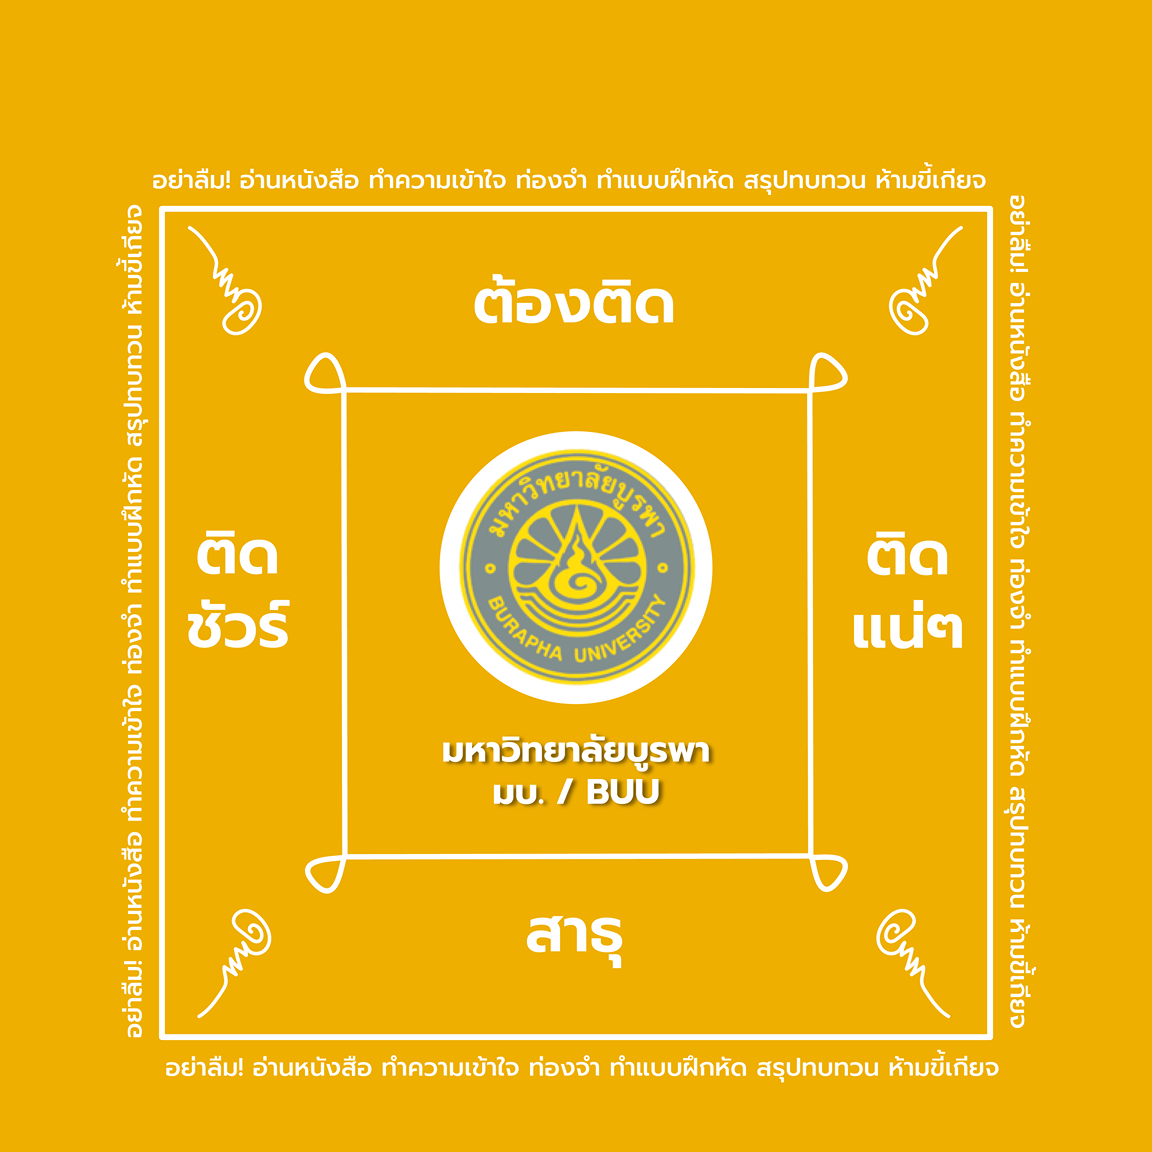
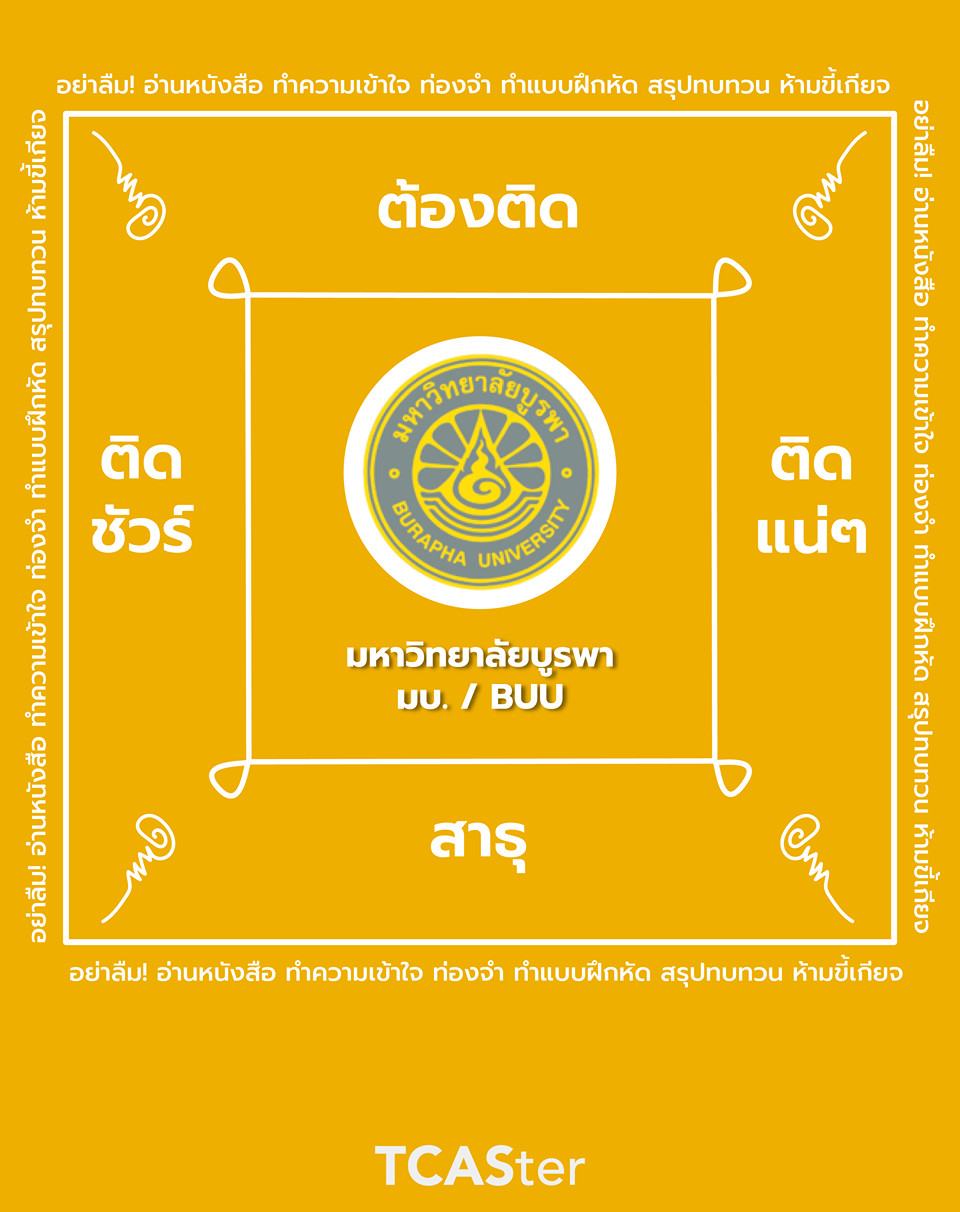
include tcaster watermarks

Changed region(s): [[0.0312, 0.0625, 0.9688, 1.0]]

diff --git a/src/components/schedule/index.tsx b/src/components/schedule/index.tsx
@@ -101,6 +101,10 @@ export const Schedule: FC<{
           <div className={classNames(styles["uni-img"], "absolute bottom-0 right-0")}>
             <Image alt={currData.theme} priority={true} src={`/assets/uni/${currData.theme}.png`} layout="fill" />
           </div>
+
+          {/* <div className={styles["tcaster"]}>
+            <Image alt="TCASter Logo" priority={true} src={`/assets/tcaster.png`} layout="fill" />
+          </div> */}
         </>
       )}
       {currData.mode !== "uni" && (

diff --git a/src/components/schedule/schedule.module.scss b/src/components/schedule/schedule.module.scss
@@ -131,6 +131,15 @@ $grad: linear-gradient(46.79deg, #3b36d2 15.01%, #3b39a5 30.68%, #6954bd 60.18%,
 }
 
 .uni-img {
-  width: calc(var(--width) / 4.65);
-  height: calc(var(--width) / 4.65);
+  width: calc(var(--width) / 5);
+  height: calc(var(--width) / 4.25);
+}
+
+.tcaster {
+  position: absolute;
+  left: 50%;
+  transform: translateX(-50%);
+  width: calc(var(--width) / 12);
+  height: calc(var(--width) / 18.5);
+  bottom: calc(var(--width) / 15.65);
 }
